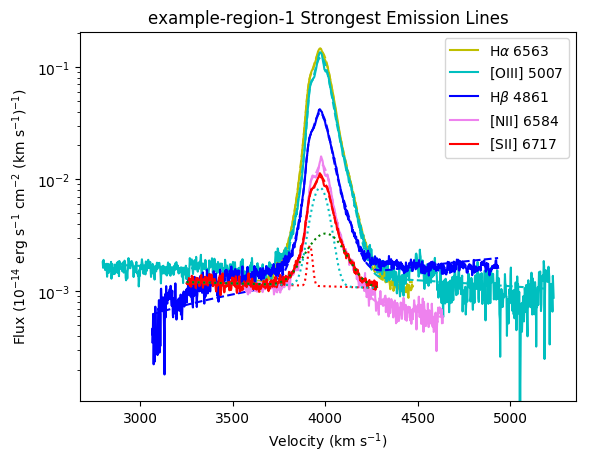
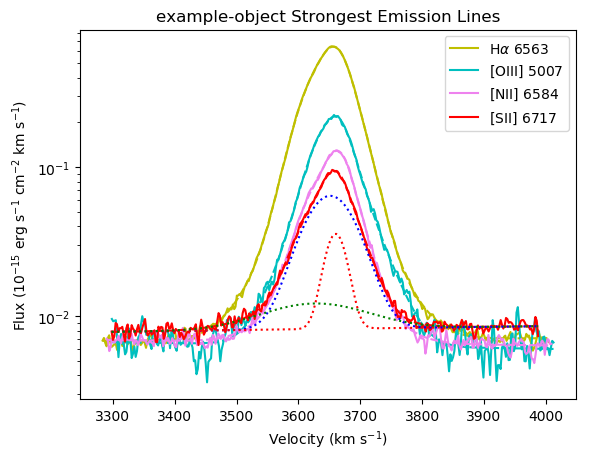
modifications in the example

Changed region(s): [[0.1222, 0.0, 0.9779, 0.913], [0.0, 0.213, 0.1222, 0.7304], [0.0611, 0.1217, 0.1222, 0.1826]]

diff --git a/run_analysis.py b/run_analysis.py
@@ -16,46 +16,44 @@ constants.OUTPUT_DIR = os.path.join(os.path.dirname(os.path.abspath(__file__)), 
 constants.DATA_FILES = os.path.join(os.path.dirname(os.path.abspath(__file__)), 'Input_Data_Files')
 
 # # Set up example region to simultaneously fit multiple emission lines
-example_region = RegionParameters(region_name='HCG31-A',
-                                  blue_spec_file='HCG31-A_B.fc.fits',
-                                  red_spec_file='HCG31-A_R.fc.fits',
-                                  blue_spec_error_file='HCG31-A_B_ErrorFlux.fc.fits',
-                                  red_spec_error_file='HCG31-A_R_ErrorFlux.fc.fits',
-                                  scale_flux=1e14,
-                                  center_list={'low': [4002.52322, 4021.71577, 3973.37160],
-                                               'high': [4005.19802, 4025.48311, 3982.74252]},
-                                  sigma_list={'low': [41.8827261, 18.8630715,  92.9064515],
-                                              'high': [44.0996336, 16.9739078,  101.497488]},
-                                  lin_slope={'low': -2.4358e-07, 'high': -1.0036e-07},
-                                  lin_int={'low': 0.00218375, 'high': 0.00172978},
-                                  num_comps={'low': 3, 'high': 3},
-                                  component_labels=['Narrow 1', 'Narrow 2', 'Broad'],
-                                  component_colors=['b', 'r', 'g'],
-                                  plotting_x_range=[3600, 4300],
-                                  sigma_instr_blue=5.2,
-                                  sigma_inst_red=6.2,
-                                  distance=1.67e26,
-                                  em_lines_for_avg_vel_calc=['H-Alpha', 'H-Beta_Blue', 'OIII-5007A', 'NII-6584A', 'SII-6717A'],
-                                  plot_residuals=False,
-                                  show_systemic_velocity=False,
-                                  systemic_velocity=None
+example_object = RegionParameters(region_name='example-object', # Name of object
+                                  blue_spec_file='exampleB.fc.fits', #fits file path of the blue spectrum
+                                  red_spec_file='exampleR.fc.fits', #fits file path of the red spectrum
+                                  blue_spec_error_file='exampleB_ErrorFlux.fc.fits', #fits file path of the blue spectrum error
+                                  red_spec_error_file='exampleR_ErrorFlux.fc.fits', #fits file path of the red spectrum error
+                                  scale_flux=1e15, # Scales the fluxes
+                                  center_list={'low': [3649.11211, 3661.84195, 3648.06497],
+                                               'high': [3653.62683, 3664.44579, 3659.42848]}, # Center values of the Gaussian components for each zone
+                                  sigma_list={'low': [37.8404349, 17.4726107, 73.8997483],
+                                              'high': [30.1209633, 14.8025090, 57.1031261]}, # Sigma values of the Gaussian components for each zone
+                                  lin_slope={'low': -5.8183e-07, 'high': -4.5958e-07}, # Linear slope values representing the continuum
+                                  lin_int={'low': 0.00890187, 'high': 0.00789864}, # Linear intercept values representing the continuum
+                                  num_comps={'low': 3, 'high': 3}, #Number of Gaussian components for each zone
+                                  component_labels=['Narrow 1', 'Narrow 2', 'Broad'], #Labels for each of the gaussian components
+                                  component_colors=['b', 'r', 'g'], #Colour to plot each of the gaussian components
+                                  plotting_x_range=[3400, 4000], # xrange of velocities or delta velocities
+                                  sigma_instr_blue=4.8, # Instrumental profile on blue arm
+                                  sigma_inst_red=5.9, # Instrumental profile on red arm
+                                  distance=52.8,  #Distance to object in Mpc
+                                  em_lines_for_avg_vel_calc=['H-Alpha', 'OIII-5007A', 'NII-6584A', 'SII-6717A'], # List of emission-lines to use to calculate the average radial velocity
+                                  plot_residuals=True,
+                                  show_systemic_velocity=False, # Assumed False if not defined
+                                  systemic_velocity=3650  # Center of most importan emission-line required only if showSystemicVelocity is True
                                   )
 
-example_region.add_em_line(name='H-Alpha', plot_color='y', order=20, filter='red', min_idx=2931, max_idx=3360, rest_wavelength=6562.82, num_comps=3, amp_list=[13.5290844, 1.9384663, 6.3288925], zone='low', sigma_tsquared=164.96, comp_limits={'a': np.inf, 'c': np.inf, 's': np.inf}, copy_from=None)
-example_region.add_em_line(name='OIII-5007A', plot_color='c', order=4, filter='red', min_idx=2300, max_idx=3440, rest_wavelength=5006.84, num_comps=3, amp_list=[9.750481, 1.283694, 5.119205], zone='high', sigma_tsquared=10.39, comp_limits={'a': np.inf, 'c': np.inf, 's': np.inf}, copy_from=None)
-example_region.add_em_line(name='OIII-4959A', plot_color='g', order=4, filter='red', min_idx=1080, max_idx=2000, rest_wavelength=4958.91, num_comps=3, amp_list=[3.2072457, 0.4285652, 1.7044356], zone='high', sigma_tsquared=10.39, comp_limits={'a': np.inf, 'c': False, 's': False}, copy_from='OIII-5007A')
-example_region.add_em_line(name='H-Beta', plot_color='b', order=36, filter='blue', min_idx=370, max_idx=1613, rest_wavelength=4861.33, num_comps=3, amp_list=[3.9230061, 0.3794315, 2.1102948], zone='low', sigma_tsquared=164.96, comp_limits={'a': np.inf, 'c': False, 's': False}, copy_from='H-Alpha')
-example_region.add_em_line(name='NII-6584A', plot_color='violet', order=20, filter='red', min_idx=3361, max_idx=3885, rest_wavelength=6583.41, num_comps=3, amp_list=[1.7845879, 0.446267, 0.9448954], zone='low', sigma_tsquared=11.87, comp_limits={'a': np.inf, 'c': np.inf, 's': np.inf}, copy_from=None)
-example_region.add_em_line(name='NII-6548A', plot_color='violet', order=20, filter='red', min_idx=2563, max_idx=2930, rest_wavelength=6548.03, num_comps=3, amp_list=[0.0324588, 1.0586795, 0.5316711], zone='low', sigma_tsquared=11.87, comp_limits={'a': np.inf, 'c': False, 's': False}, copy_from='NII-6584A')
-example_region.add_em_line(name='SII-6717A', plot_color='r', order=22, filter='red', min_idx=508, max_idx=985, rest_wavelength=6716.47, num_comps=3, amp_list=[1.0651477, 0.1889682, 0.5398219], zone='low', sigma_tsquared=5.19, comp_limits={'a': np.inf, 'c': False, 's': False}, copy_from='H-Alpha')
-# example_region.add_em_line(name='SII-6731A', plot_color='#58D68D', order=22, filter='red', min_idx=986, max_idx=1290, rest_wavelength=6730.85, num_comps=3, amp_list=[0.0324219, 0.6733394, 0.2678776], zone='low', sigma_tsquared=5.19, comp_limits={'a': np.inf, 'c': False, 's': False}, copy_from='SII-6717A')
-example_region.add_em_line(name='H-Gamma', plot_color='r', order=27, filter='blue', min_idx=1625, max_idx=2183, rest_wavelength=4340.47, num_comps=3, amp_list=[1.8354956, 0.1155452, 0.8171744], zone='low', sigma_tsquared=164.96, comp_limits={'a': np.inf, 'c': False, 's': False}, copy_from='H-Beta')
-example_region.add_em_line(name='H-Delta', plot_color='c', order=22, filter='blue', min_idx=2390, max_idx=2810, rest_wavelength=4101.74, num_comps=3, amp_list=[0.9831404, 0.0538247, 0.420242], zone='low', sigma_tsquared=164.96, comp_limits={'a': np.inf, 'c': False, 's': False}, copy_from='H-Beta')
-example_region.add_em_line(name='SIII-9069A', plot_color='#27AE60', order=35, filter='red', min_idx=485, max_idx=881, rest_wavelength=9068.9, num_comps=3, amp_list=[1.462683, 0.5170754, 0.5116994], zone='low', sigma_tsquared=5.19, comp_limits={'a': np.inf, 'c': False, 's': False}, copy_from='OIII-5007A')
+example_object.add_em_line(name='H-Alpha', plot_color= 'y', order=  20, filter= 'red', min_idx=  2800, max_idx=3140, rest_wavelength=  6562.82, num_comps=3, amp_list=  [44.999084, 18.236959, 9.312178], zone= 'low', sigma_tsquared=  164.96, comp_limits= {'a': np.inf, 'c': np.inf, 's': np.inf}, copy_from= None)
+example_object.add_em_line(name='OIII-5007A', plot_color= 'c', order=  4, filter= 'red', min_idx=  2535, max_idx=2870, rest_wavelength=  5006.84, num_comps=3, amp_list=  [15.056061, 4.566674, 5.261243], zone= 'high', sigma_tsquared=  10.39,  comp_limits= {'a': np.inf, 'c': np.inf, 's': np.inf}, copy_from= None)
+example_object.add_em_line(name='OIII-4959A', plot_color= 'g', order=  4, filter= 'red', min_idx=  1180, max_idx=1510, rest_wavelength=  4958.91, num_comps=3, amp_list=  [5.190979, 1.265695, 0.986356], zone= 'high', sigma_tsquared=  10.39, comp_limits= {'a': np.inf, 'c': False, 's': False}, copy_from= 'OIII-5007A')
+example_object.add_em_line(name='H-Beta', plot_color='b', order=  36, filter=  'blue',  min_idx= 520,  max_idx= 990, rest_wavelength= 4861.33, amp_list= [8.435867, 1.861033, 3.630495], zone=  'low', sigma_tsquared=  164.96, comp_limits= {'a': np.inf, 'c': False, 's': False}, copy_from=  'H-Alpha'),
+example_object.add_em_line(name='OI-6300A', plot_color= '#D35400', order=  18, filter= 'red', min_idx=  2380, max_idx=2700, rest_wavelength=  6300.3, num_comps=3, amp_list=  [0.254865, 0.420512, 0.598598], zone= 'low', sigma_tsquared=  10.39, comp_limits= {'a': np.inf, 'c': False, 's': False}, copy_from= 'H-Alpha')
+example_object.add_em_line(name='NII-6584A', plot_color= 'violet', order=  20, filter= 'red', min_idx=  3250, max_idx=3590, rest_wavelength=  6583.41, num_comps=3, amp_list=  [5.526779, 4.684082, 2.48221], zone= 'low', sigma_tsquared=  11.87, comp_limits= {'a': np.inf, 'c':np.inf, 's': np.inf}, copy_from= None)
+example_object.add_em_line(name='NII-6548A', plot_color= 'violet', order=  20, filter= 'red', min_idx=  2480, max_idx=2820, rest_wavelength=  6548.03, num_comps=3, amp_list=  [1.729284, 1.613114, 0.821882], zone= 'low', sigma_tsquared=  11.87, comp_limits= {'a': np.inf, 'c': False, 's': False}, copy_from= 'NII-6584A')
+example_object.add_em_line(name='SII-6717A', plot_color= 'r', order=  22, filter= 'red', min_idx=  530, max_idx=850, rest_wavelength=  6716.47, num_comps=3, amp_list=  [4.68714, 2.259787, 1.839585], zone= 'low', sigma_tsquared=  5.19, comp_limits= {'a': np.inf, 'c': np.inf, 's': np.inf}, copy_from= None)
+example_object.add_em_line(name='SII-6731A', plot_color= '#58D68D', order=  22, filter= 'red', min_idx=  836, max_idx=1150, rest_wavelength=  6730.85, num_comps=3, amp_list=  [3.34683, 1.878706, 1.238023], zone= 'low', sigma_tsquared=  5.19,comp_limits= {'a': np.inf, 'c': False, 's': False}, copy_from= 'SII-6717A')
 
 
 def main():
-    regions_parameters = [example_region]
+    regions_parameters = [example_object]
 
     region_array = []
     rp_bpt_points, rp_bpt_points_s, rp_bpt_points_o, rp_bpt_points_p = [], [], [], []
@@ -67,8 +65,8 @@ def main():
         rp_bpt_points_o.append(region.bptPoints_OI)
         rp_bpt_points_p.append(region.bptPoints_NIIvsSII)
 
-        plot_profiles(['H-Alpha', 'OIII-5007A', 'H-Beta', 'NII-6584A', 'SII-6717A'], rp, nameForComps='SII-6717A',
-                      title=rp.regionName + ' Strongest Emission Lines', sortedIndex=[0, 1, 2, 3, 4], logscale=True,
+        plot_profiles(['H-Alpha', 'OIII-5007A', 'NII-6584A', 'SII-6717A'], rp, nameForComps='SII-6717A',
+                      title=rp.regionName + ' Strongest Emission Lines', sortedIndex=[0, 1, 2, 3], logscale=True,
                       ymin=None)
 
     bpt_plot(regions_parameters, rp_bpt_points, plot_type='NII')

diff --git a/fitelp/bpt_plotting.py b/fitelp/bpt_plotting.py
@@ -160,7 +160,7 @@ def bpt_plot_NII(rpList, rpBptPoints, globalOnly=False):
     plt.xlim(-1.5, 0.5)
     plt.ylim(-1, 1.5)
     plt.xlabel(r"$\log(\mathrm{[NII]6584\AA / H\alpha})$")
-    plt.ylabel(r"$\log(\mathrm{[OIII]5007\AA / H\beta}$")
+    plt.ylabel(r"$\log(\mathrm{[OIII]5007\AA / H\beta})$")
     plt.legend(fontsize=9)
     plt.savefig(os.path.join(constants.OUTPUT_DIR, 'bpt_NII.png'))
 
@@ -195,7 +195,7 @@ def bpt_plot_SII(rpList, rpBptPoints, globalOnly=False):
     plt.xlim(-1.5, 0.5)
     plt.ylim(-1, 1.5)
     plt.xlabel(SII_label)
-    plt.ylabel(r"$\log(\mathrm{[OIII]5007\AA / H\beta}$")
+    plt.ylabel(r"$\log(\mathrm{[OIII]5007\AA / H\beta})$")
     plt.legend(fontsize=9)
     plt.savefig(os.path.join(constants.OUTPUT_DIR, 'bpt_SII.png'))
 
@@ -229,7 +229,7 @@ def bpt_plot_OI(rpList, rpBptPoints, globalOnly=False):
     plt.xlim(-1.5, 0.5)
     plt.ylim(-0.5, 1.5)
     plt.xlabel(r"$\log(\mathrm{[OI]6300\AA / H\alpha})$")
-    plt.ylabel(r"$\log(\mathrm{[OIII]5007\AA / H\beta}$")
+    plt.ylabel(r"$\log(\mathrm{[OIII]5007\AA / H\beta})$")
     plt.legend(fontsize=9)
     plt.savefig(os.path.join(constants.OUTPUT_DIR, 'bpt_OI.png'))
 
@@ -264,7 +264,7 @@ def bpt_plot_NIIvsSII(rpList, rpBptPoints, globalOnly=False):
     # plt.ylim(-0.5, 1.5)
 
     plt.xlabel(bptPoints['SII_label'])
-    plt.ylabel(r"$\log(\mathrm{[NII]6584\AA / H\alpha}$")
+    plt.ylabel(r"$\log(\mathrm{[NII]6584\AA / H\alpha})$")
     plt.legend(fontsize=9)
     plt.savefig(os.path.join(constants.OUTPUT_DIR, 'bpt_NIIvsSII.png'))
 

diff --git a/fitelp/make_latex_tables.py b/fitelp/make_latex_tables.py
@@ -38,11 +38,11 @@ def table_to_latex(tableArray, headingLines, saveFileName, directory, caption, c
 
 
 def halpha_regions_table_to_latex(regionInfoArray, directory=None, paperSize='a4', orientation='portrait', longTable=False):
-    saveFileName = 'RegionInfo'
-    headings = [r'Region Name', r'SFR', r'$\mathrm{log(L(H}\alpha))$', r'$\mathrm{log([NII]/H}\alpha)$', r'$\mathrm{log([OIII]/H}\beta)$']
+    saveFileName = 'ObjectInfo'
+    headings = [r'Object Name', r'SFR', r'$\mathrm{log(L(H}\alpha))$', r'$\mathrm{log([NII]/H}\alpha)$', r'$\mathrm{log([OIII]/H}\beta)$']
     headingUnits = ['', r'$(\mathrm{M_{\odot} \ yr^{-1}})$', '', '', '']
     headingLines = [headings, headingUnits]
-    caption = 'Region Information'
+    caption = 'Object Information'
     nCols = len(headings)
     centering = 'l' + 'c' * (nCols-1)
     directory = get_directory(directory)
@@ -80,7 +80,7 @@ def average_velocities_table_to_latex(rpList, directory=None, paperSize='a4', or
         headingUnits += [r'$\mathrm{(km \ s^{-1})}$', r'$\mathrm{(km \ s^{-1})}$']
 
     headingLines = [regionHeadings, headings, headingUnits]
-    caption = "Average radial velocities and velocity dispersions for all regions"
+    caption = "Average of radial velocities and velocity dispersions"
     nCols = len(headings)
     centering = 'l' + 'c' * (nCols-1)
     directory = get_directory(directory)
